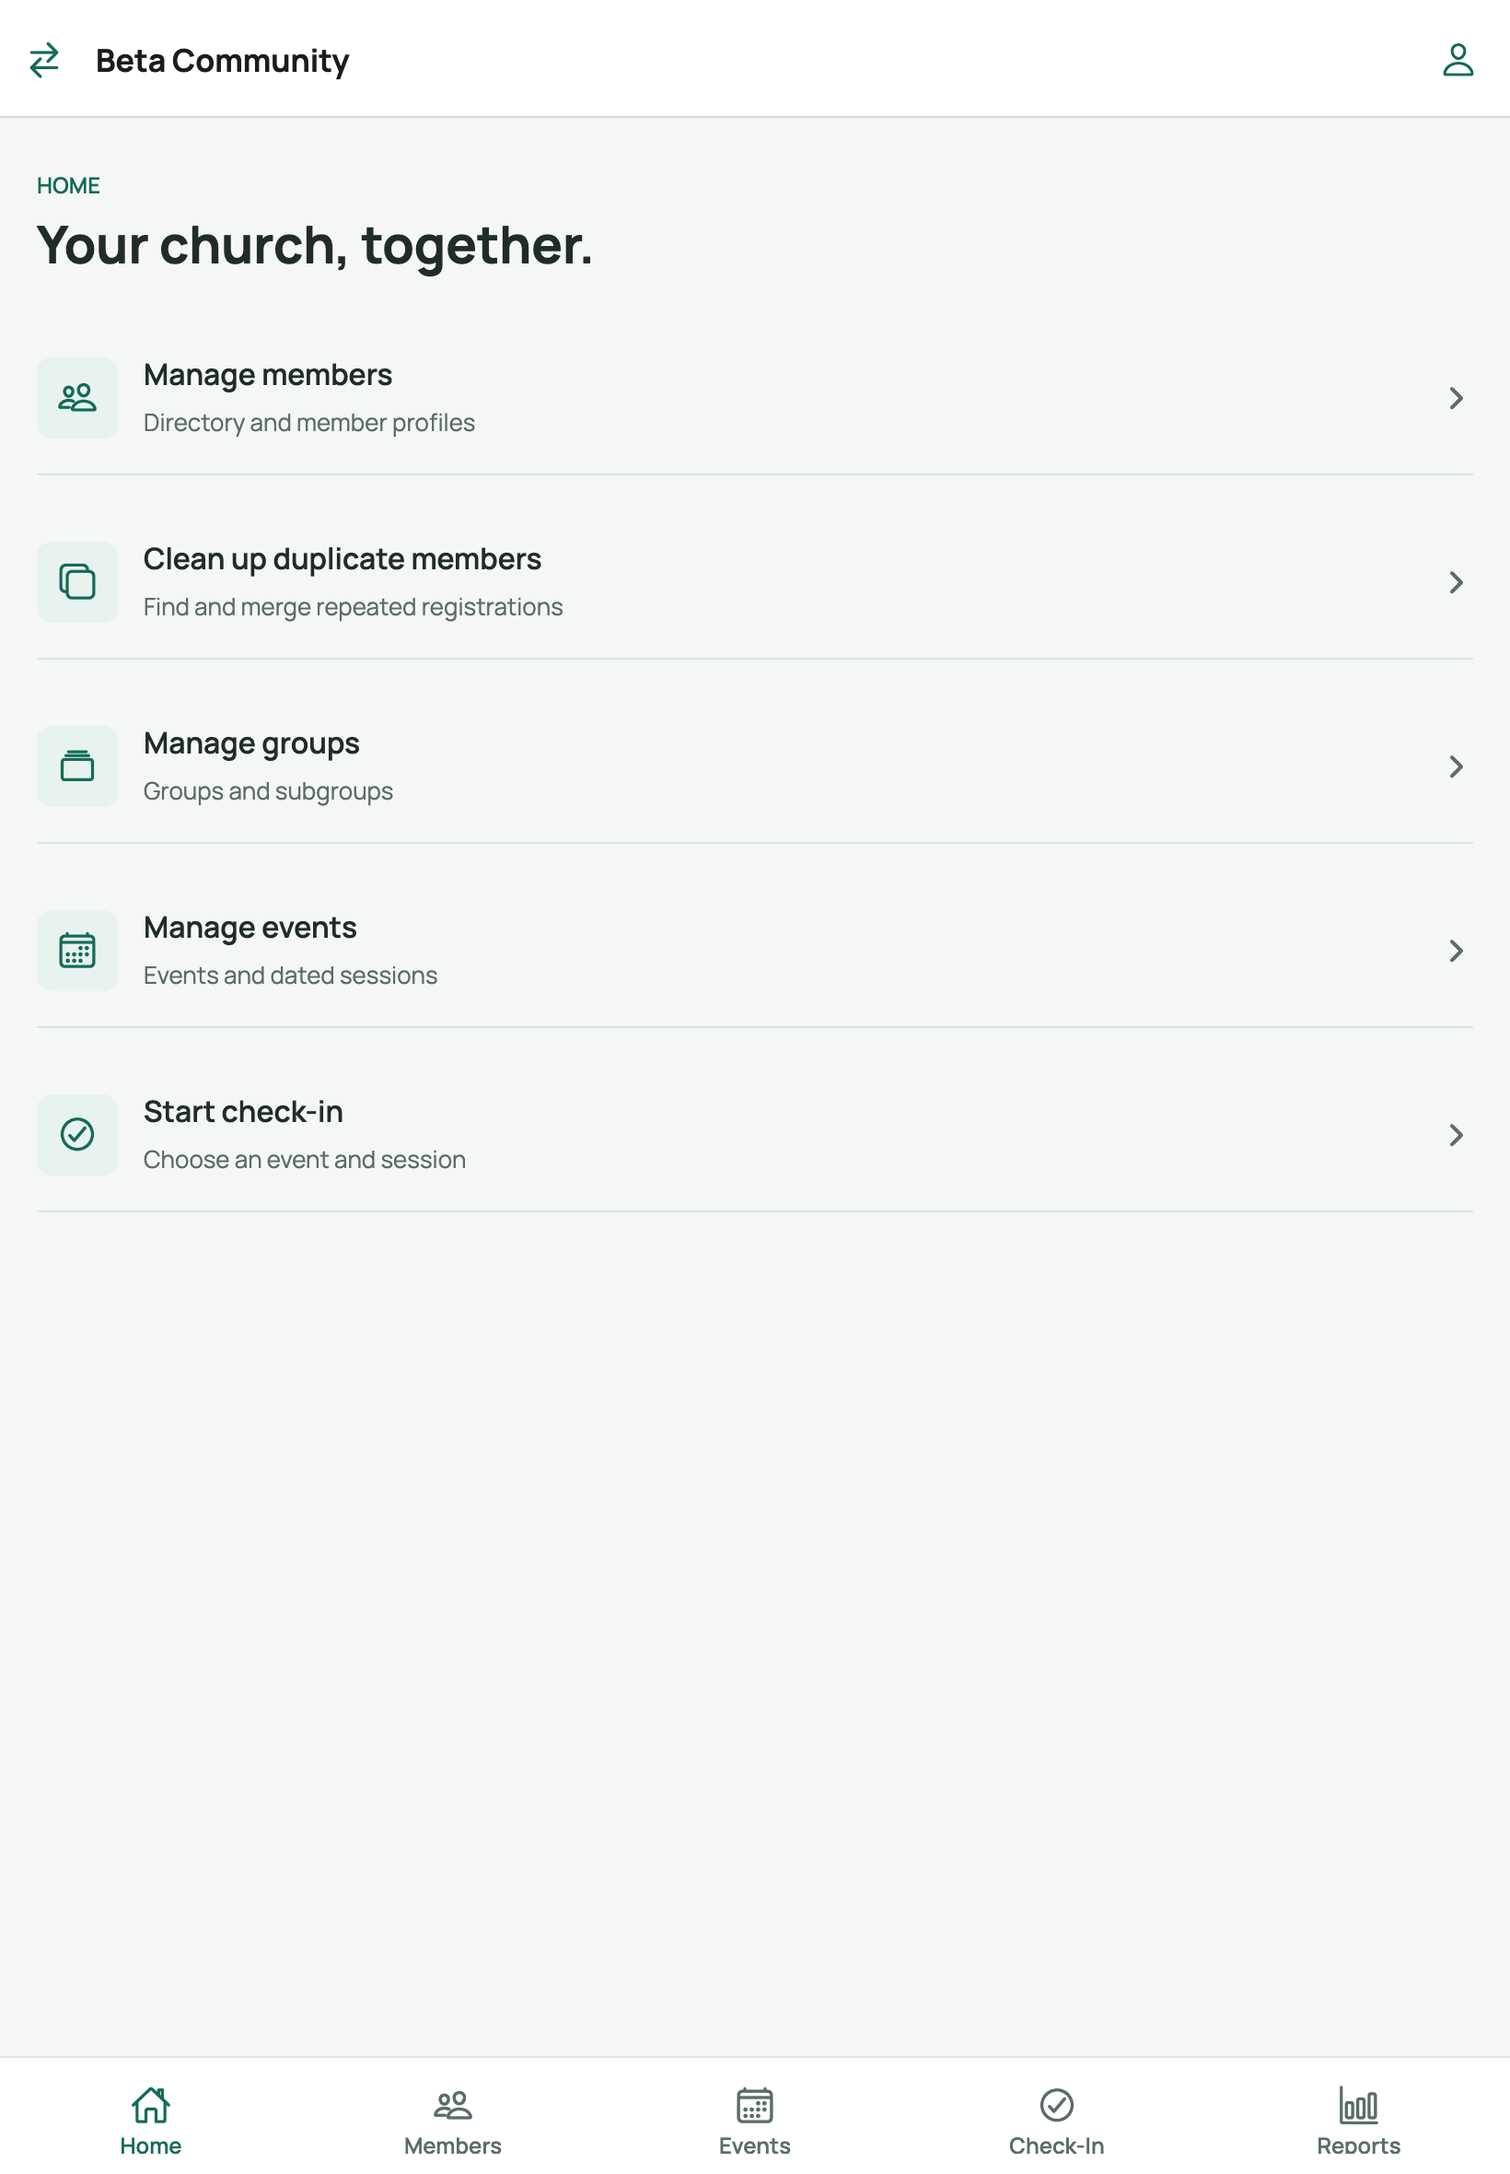
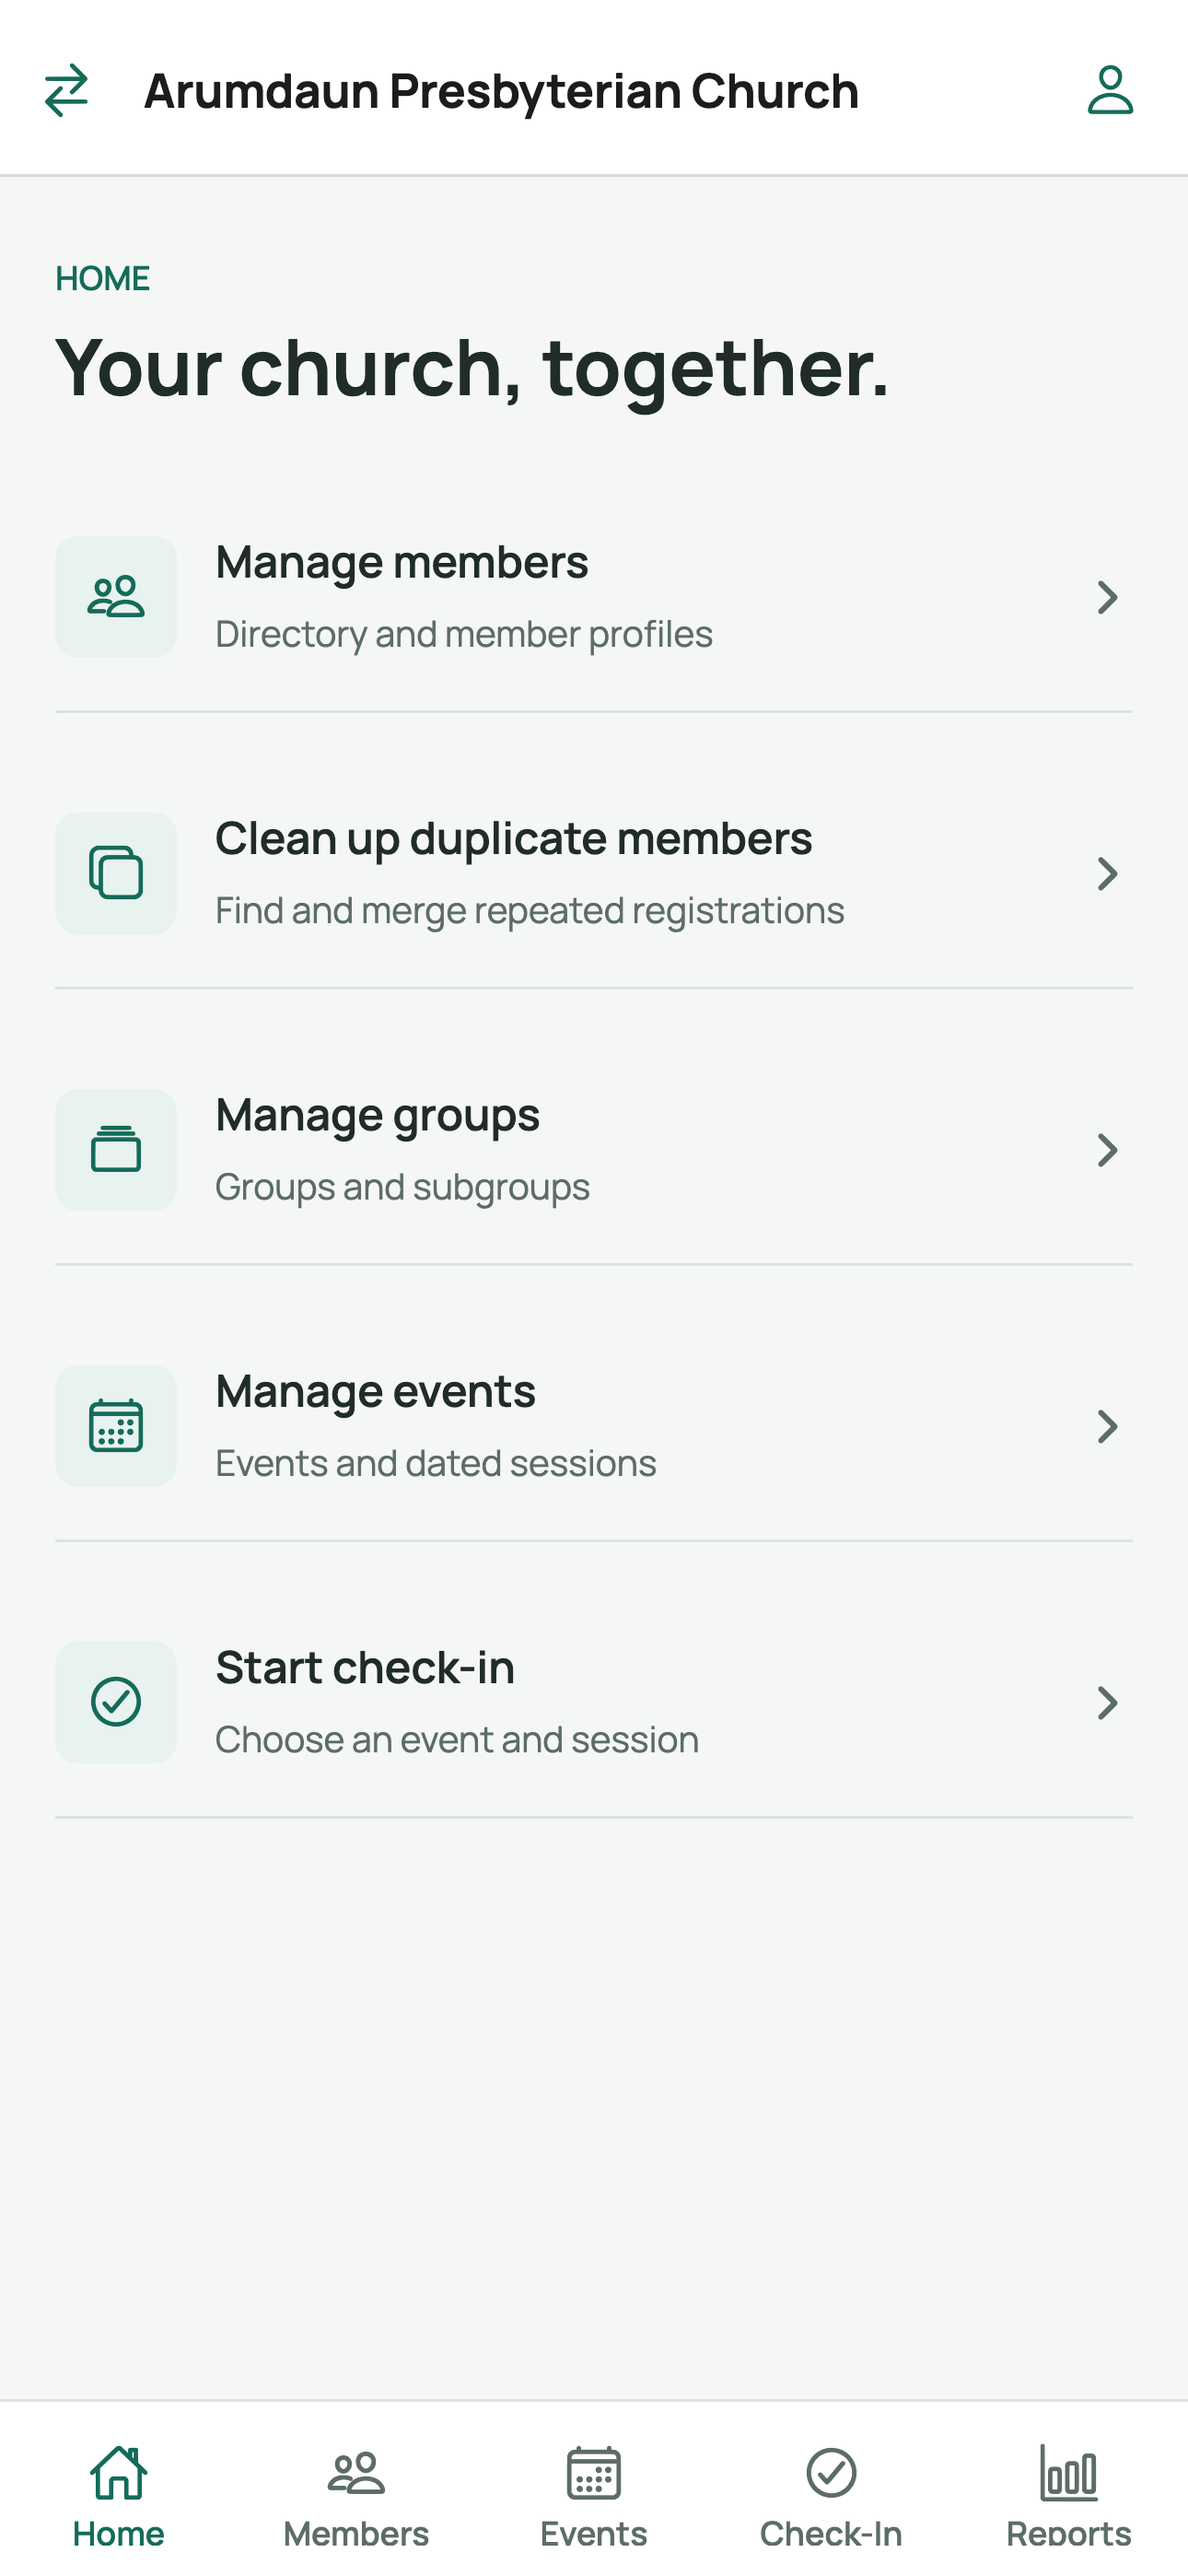
changing image on the user guide

diff --git a/src/JcChurchMobile/tests/e2e/screenshots.spec.ts b/src/JcChurchMobile/tests/e2e/screenshots.spec.ts
@@ -401,6 +401,13 @@ test.beforeEach(async ({ page }) => {
   await mockApi(page);
 });
 
+test("guide screenshot: home overview", async ({ page }) => {
+  await seedAdmin(page);
+  await page.goto(`/church/${alpha.id}`);
+  await expect(page.getByRole("heading", { name: "Your church, together." })).toBeVisible();
+  await shot(page, "home");
+});
+
 test("guide screenshots: sign-in and church picker", async ({ page }) => {
   await page.goto("/login");
   await expect(page.getByRole("heading", { name: "Sign in" }).last()).toBeVisible();

diff --git a/user-guide/README.md b/user-guide/README.md
@@ -21,7 +21,7 @@ screen by screen.
 
 After signing in and choosing a church, the app shows five tabs at the bottom:
 
-![Home screen on a tablet showing quick links and five bottom tabs](images/home.png)
+![Home screen on an iPhone Pro Max showing quick links and five bottom tabs](images/home.png)
 
 - **Home** — quick links: members, duplicates cleanup, groups, events, check-in.
 - **Members** — the member directory (see guides 2–5).
@@ -32,9 +32,9 @@ After signing in and choosing a church, the app shows five tabs at the bottom:
 The header shows the church name, a **switch church** button ([<]) when you
 belong to more than one church, and your account chip (name/photo) on the right.
 
-> All screenshots in this guide were captured on an iPhone Pro Max screen. The app
-> looks and works the same on phones and on the web; the layout adjusts to the
-> screen size.
+> All screenshots in this guide were captured on an iPhone Pro Max screen. The
+> app looks and works the same on tablets and on the web; the layout adjusts to
+> the screen size.
 
 ## Roles at a glance
 
